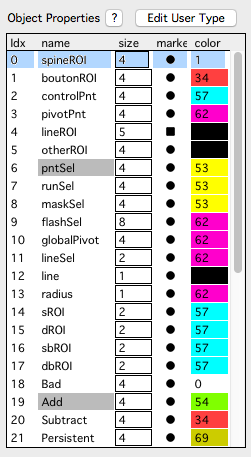
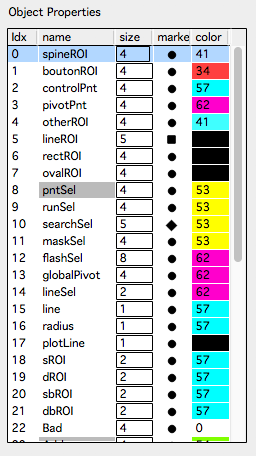
stack/buttons/options

diff --git a/_posts/2015-01-30-stack.md b/_posts/2015-01-30-stack.md
@@ -61,7 +61,7 @@ td{
 
 
 
-A stack window displays a 3D image stack, one image at a time.
+A stack window displays a 3D image stack, one image at a time
 
 <IMG class="img-float-right" SRC="images/imagingcore/stack-example-spines4.png" WIDTH="350">
 
@@ -81,7 +81,10 @@ Mouse click+drag or keyboard <kbd>arrow-keys</kbd> to pan the image.
 Keyboard <kbd>Enter</kbd> will return image to full zoom.
 
 #### Selecting annotations
+
 Single mouse-click to select an annotation. Selected annotations are highlighted in yellow. Keyboard <kbd>n</kbd> to edit the selected annotation note. Mouse right-click to show context menu for selected annotation.
+
+<kbd>Ctrl</kbd>+click an annotation to center and zoom on that annotations. In a [run plot][run-plot], <kbd>ctrl</kbd>+click will center and zoom the annotation in all [run plot][run-plot] windows.
 
 #### Canceling annotation selection
 Keyboard <kbd>esc</kbd> will **cancel** all selected annotations.
@@ -91,7 +94,7 @@ Keyboard <kbd>esc</kbd> will **cancel** all selected annotations.
 
 ### Multiple color channels
 
-Use keyboard <kbd>1</kbd>, <kbd>2</kbd>, and <kbd>3</kbd> to switch between channels one, two, and three. Color channels can also be switched using the <a href="#buttons-panel">buttons panel</a> or the mouse right-click menu.
+For image stacks with more than one color channel, use keyboard <kbd>1</kbd>, <kbd>2</kbd>, and <kbd>3</kbd> to switch between channels one, two, and three. Color channels can also be switched using the [buttons][buttons] window or the mouse right-click menu 'view'.
 
 <IMG class="img-float-right" SRC="images/contrast-bar.png" WIDTH="500">
 
@@ -99,7 +102,7 @@ Use keyboard <kbd>1</kbd>, <kbd>2</kbd>, and <kbd>3</kbd> to switch between chan
 
 <div class="print-page-break"></div>
 
-Open the contrast bar with keyboard <kbd>c</kbd>, the right-click menu 'View - Contrast Bar', or use the <a href="#buttons-panel">buttons panel</a> 'control bar'.
+Open the contrast bar with keyboard <kbd>c</kbd>, the right-click menu 'View - Contrast Bar', or use the [buttons][buttons] paenl 'contrast bar'.
 
 <span style="color:red">Image contrast is critical</span>. If contrast is not set properly, dim but otherwise important structures in an image may not be visible. Setting the contrast does not modify the image, it is purely for visualization. To acheive optimal contrast, use the histogram (keyboard <kbd>h</kbd>) to choose the image contrast based on the intensity values in an image.
 
@@ -126,18 +129,26 @@ The values can be saved from the [Options Panel][2] or the main Map Manager menu
 <div class="print-page-break"></div>
 
 
-<IMG class="img-float-right" SRC="images/mm3/buttons.png" WIDTH="225">
+<IMG class="img-float-right" SRC="images/mm3/mm3-stack-right-click.png" WIDTH="175">
 
-### Buttons panel
+### Right click
+
+Right-click on the image and you will get a contextual menu to activate the features described on this page. Many of the options available in the right-click menu can also be set using the [buttons][buttons] window.
+
+<div class="print-page-break"></div>
+
+<IMG class="img-float-right" SRC="images/mm3/mm3-buttons.png" WIDTH="225">
+
+### Buttons window
 
 <a id="buttons-panel"></a>
 
 
-The buttons panel provides a quick interface to perform actions on stack and [map plot](map-plot) windows. The actions provided in the buttons panel are also available from individual map manager windows using a mouse right-click.
+The [buttons][buttons] window provides a quick interface to perform actions on stack and [map plot](map-plot) windows. The actions provided in the buttons window are also available from individual map manager windows using a mouse right-click.
 
-Open the buttons panel from the main menu 'MapManager - Buttons' or use keyboard <kbd>ctrl</kbd>+<kbd>1</kbd>.
+Open the buttons window from the main menu 'MapManager - Buttons' or use keyboard <kbd>ctrl</kbd>+<kbd>1</kbd>.
 
-Once open, the buttons panel will automatically update based on the front-most Map Manager window. The 'stack' tab is for setting stack windows, the 'Obj Map' tab for setting [map plot](map-plot) windows and the 'Report' tab is for generating [reports][reports].
+Once open, the buttons window will automatically update based on the front-most Map Manager window. The 'stack' tab is for setting stack windows, the 'Obj Map' tab for setting [map plot](map-plot) windows and the 'Report' tab is for generating [reports][reports].
 
 
 
@@ -149,7 +160,7 @@ Once open, the buttons panel will automatically update based on the front-most M
 
 The histogram window show a histogram of pixel intensity values for each image in a stack.
 
-Open the histogram window with keyboard <kbd>h</kbd>, the right-click menu, or the <a href="#buttons-panel">buttons panel</a>.
+Open the histogram window with keyboard <kbd>h</kbd>, the right-click menu, or the [buttons][buttons] window.
 
 - The histogram window shows a pixel intensity histogram for one image. The y-axis is a log scale. This is useful because most images will have an order-of-magnitude more dark pixels, a log scale allows the contributions of the generally brighter signal pixels to be seen.
 - Scroll through the image in a stack (mouse-wheel) and the histogram for each image will be show.
@@ -162,7 +173,7 @@ Open the histogram window with keyboard <kbd>h</kbd>, the right-click menu, or t
 
 A sliding z-projection is a special stack where each image plane is replaced by a small z-projection showing slices just above and below the current image plane. For frame averaging, each image is replaced by the average of itself with a number of frames after it.
 
-Switch channels or to a sliding z-projection using the following table. This is also available in the <a href="#buttons-panel">buttons panel</a>.
+Switch channels or to a sliding z-projection using the following table. This is also available in the [buttons][buttons] window.
 
 **Important.** Switch to a sliding z-projection with <kbd>shift</kbd> to set the sliding z-projection options including the number of slices and the type of projection (Maximal, Frame Average, Standard Deviation). For example, if you have one channel images, <kbd>shift</kbd>+<kbd>3</kbd> will allow you to set the sliding z-projection options.
 
@@ -232,13 +243,6 @@ See [stack annotations][3] for details on creating and editing annotations.
  
  <div class="print-page-break"></div>
 
-<IMG class="img-float-right" SRC="images/mm3/mm3-stack-right-click.png" WIDTH="200">
-
-### Right click
-
-Right-click on the image and you will get a contextual menu to activate the features described on this page. All the options available in the right-click menu can also be set using the <A HREF="#buttons-panel">buttons</A> panel.
-
-<div class="print-page-break"></div>
 
 <img class="img-float-right" SRC="images/mm3/mm3-point-info.png" WIDTH="300">
 
@@ -291,7 +295,7 @@ In most cases the voxel size will be set automatically. The x/y/z voxel size of 
 
 ### Stack window keyboard shortcuts
 
-Map Manager makes heavy use of keyboard shortcuts. All of these keyboard shortcuts are available in the mouse right-click menu (which also lists the corresponding keyboard shortcut) and in the <A HREF="#buttons-panel">buttons panel</a>.
+Map Manager makes heavy use of keyboard shortcuts. All of these keyboard shortcuts are available in the mouse right-click menu (which also lists the corresponding keyboard shortcut) and in the [buttons][buttons] window.
 
 |---+---+---+---
 |Topic			|Keyboard/Mouse		|Action
@@ -303,10 +307,12 @@ Map Manager makes heavy use of keyboard shortcuts. All of these keyboard shortcu
 |				|ctrl + mouse wheel		|Zoom image. Zooming follows the mouse cursor.
 |				|Enter/Return			|Full zoom image
 |				|]				|Toggle between 2 different window sizes
+|				|left mouse-click		| Select annotation
+|				|ctrl + left mouse-click	|Select, center and zoom annotation
 |**Toolbars**	| |
 |				|c				|Toggle contrast toolbar (top)
 |				|[				|Toggle annotation toolbar (left)
-|				|ctrl + 1		|Open the buttons panel
+|				|ctrl + 1		|Open the buttons window
 |**Annotations**	| |
 |				|shift + mouse click	| Create a new annotation.
 |				|mouse left-click	| Select annotation. Selected annotations are shown in yellow.
@@ -322,7 +328,7 @@ Map Manager makes heavy use of keyboard shortcuts. All of these keyboard shortcu
 |**New Windows**	| |
 |				|h				|Histogram
 |				|z				|Maximal Z-Projection
-|				|i				|Object info panel
+|				|i				|Object info panel (lower case 'i' as in Info)
 |				|shift+i		|Stack info panel
 |**Movies**	| |
 |				|/				|Start and stop movie of slices/frames
@@ -332,11 +338,13 @@ Map Manager makes heavy use of keyboard shortcuts. All of these keyboard shortcu
 |				|l				|Link window (lower case 'l' as in link)
 |				|a				|Make selected annotation addition
 |				|s				|Make selected annotation subtraction
-|				|p				|Make selected annotation persistent (requires selection in previous timepoint)
+|				|p				|Make selected annotation persistent. Requires selection in previous timepoint.
+|				|shift + left-arrow			| Go to previous time-point (in the same window). Turn this on in options.
+|				|shift + right-arrow		| Go to next time-point (in the same window). Turn this on in options.
 
 #### Stack window keyboard shortcuts to display image channels
 
-Depending on the number of color channels in an image, color channels can be switch using keyboard <kbd>1</kbd>, <kbd>2</kbd>, and <kbd>3</kbd>. This includes single color channels, sliding z-projections, and merged RGB.
+Depending on the number of color channels in an image, color channels can be switch using keyboard <kbd>1</kbd>, <kbd>2</kbd>, and <kbd>3</kbd>. This includes single color channels, sliding z-projections, and merged RGB. It may be easiest to use the [buttons][buttons] window to set the displayed color channel.
 
 **Important.** Switch to a sliding z-projection with <kbd>shift</kbd> to set the sliding z-projection options. For example, if you have one channel images, <kbd>shift</kbd>+<kbd>3</kbd> will allow you to set the sliding z-projection options.
 
@@ -360,3 +368,5 @@ Depending on the number of color channels in an image, color channels can be swi
 [3]: stack-annotations
 [4]: point-list
 [reports]: reports
+[buttons]: buttons
+[run-plot]: run-plot

diff --git a/_posts/2015-04-20-search-panel.md b/_posts/2015-04-20-search-panel.md
@@ -29,25 +29,31 @@ Select the scope of the search, either a stack or a map, and choose wether to 'i
 
 Click any of the buttons down the left hand side of the panel to perform a search. The resulting annotations will be show as a list on the right.
 
+
 #### Interacting with results
 
-All searches will return a list of annotations. Right-click an annotation to open the annotation in a [stack][3] or [run plot][4]. Selecting an annotation (left-click) will select that annotation in any open [stack][3] and [map][2] plots. Likewise, selecting an annotation in a [stack][3] or [map][2] plot will select the annotation in the search result list (if it is in the list).
+<IMG class="img-float-right" SRC="images/mm3/search/search-right-click.png" WIDTH="200">
 
-Sort the results by clicking on the column header. Additional 'smart' sorting is provided with the sort buttons:
+Right-click an annotation in the search results to open the annotation in a [stack][3] or [run plot][4]. Selecting an annotation (left-click) will select that annotation in any open [stack][3] and [map][2] plots. Likewise, selecting an annotation in a [stack][3] or [map][2] plot will select the annotation in the search result list (if it is in the list).
+
+Sort the search results by a value by clicking on its column header. Additional 'smart' sorting is provided with the sort buttons:
 
  - **Sort.** Sort by idx, map, segmentID, sess, pnt
  - **Sort Mod Time.** Sort by mSeconds, idx
  - **Sort Segments.** Sort by map, sess, segmentID, pDist, idx
 
-Right-click the columns to choose the columns to display. This includes 'Date Time', 'Note', 'Errors and Warnings', and 'Spine Info'.
+Right-click the columns of the search results to choose the columns to display. This includes 'Date Time', 'Note', 'Errors and Warnings', 'Spine Info', and 'Canvas'.
 
 
 ### Editing searches
 
-<IMG class="img-float-right" SRC="images/mm3/search/search-right-click.png" WIDTH="200">
+Right-click on an annotation in the results list to open a popup to either display or edit the annotation. Annotations can be tagged as good/bad or as a particular user type.
 
-Once a search is performed, right click on an annotation in the results list to open a popup to either display or edit the annotation. Annotations can be tagged as bad or as a particular user type.
+Individual annotations can also be set with the keyboard.
 
+ - <kbd>g</kbd>: Set selected annotation to good.
+ - <kbd>b</kbd>: Set selected annotation to bad.
+ - <kbd>0 .. 9</kbd>: Set selected annotation to a specific user type.
 
 ### Types of searches
 
@@ -55,16 +61,11 @@ Once a search is performed, right click on an annotation in the results list to 
 
   - **All.** Find all annotations of 'Object Type'.
   - **Bad.** Find annotations marked bad.
-  - **Notes.** Find annotations with notes matching the search criteria. Use an asterix (\*) as a wildcard. Use \* to return all annotations with a note, use thistext\* to find annotation with notes starting with 'thistext' or ending with 'thistext' using \*thistext.
-  - **Closeness.** Find annotations that are within specified distance (um) of each other. This is useful for finding erroneous/duplicate annotations.
+  - **Notes.** Find annotations with notes matching the search criteria. Use an asterix (\*) as a wildcard. Use \* to search all annotations with a note, use thistext\* to find annotation with notes starting with 'thistext' or ending with 'thistext' using \*thistext.
+  - **Closeness.** Find annotations that are within specified distance (um) of each other. This is useful for finding overlapping/duplicate annotations.
   - **User Bool.**
   - **User Type.** Find annotations tagged with a user type 0, 1, 2, ...
   
-#### Spines
-
-  - **V Spines.** Find spines where the z-plane of the spine head is farther (in z) from the connected backbone/dendrite line. This is useful for finding spines that project out of the imaging plane. 
-  - **Segment Ends.** Find spines within specified distance (um) of the end of their segment/backbone line. This is useful for finding problematic spines during [spine intensity analysis][5].
-
 #### Map Tab
 
   - **Addition.** Find annotations that are addition.
@@ -72,11 +73,22 @@ Once a search is performed, right click on an annotation in the results list to 
   - **Persistent.** Find annotations that are persistent (not that usefull).
   - **Transient.** Find annotations that are transient. Transient annotations occur in only one time-point.
   - **Bad Runs.** Find annotations that have a mixture of good and bad within their respective run. This is used for debugging and will be removed.
-  - **Re Added.** (Spines) Find added spines that have a previous subtraction (on a previous timepoint) that is within specified distance along the backbone/dendrite.
-  - **Jumping.**
-  - **Changing User 1.**
-  - **Changing User Type.** Find all annotations that are connected to other annotations with a different user type. In general, user types (like bad) should be the same for all connected annotations.
-  
+  - **Re Added.** (Spine Annotations) Find added spines that have a previous subtraction (on a previous timepoint) that is within specified distance along the segment tracing.
+  - **Jumping.** Advanced, not used.
+  - **Changing User Type.** Find all annotations that are connected to other annotations with a different user type.
+
+#### Spines Tab
+
+  - **V Spines.** Find spines where the z-plane of the spine head is farther (in z) from the connected backbone/dendrite line. This is useful for finding spines that project out of the imaging plane. 
+  - **Segment Ends.** Find spines within specified distance (um) of the end of their segment/backbone line. This is useful for finding problematic spines during [spine intensity analysis][5].
+
+  - **Int Dirty.** Find spines with dirty intensity analysis. Spines with dirty intensity analysis can be analyzed in the main [map manager panel][6], intensity tab.
+  - **Int User.** Find spines that have their intensity analysis parameters manually set. Individual spine annotation can have their intensity analysis parameters set in a stack window using the info panel (keyboard <kbd>i</kbd>).
+  - **Int Bad.** Find spines marked as intensity bad. 
+  - **ROI Bounds.** Find spines with background ROI within specified distance (um) from edges of image. This is useful if stack alignment has been run causing images to be shifted/rotated resulting in undefined regions on the edge of the image.
+  - **Errors and Warning.** Find annotations with [Intensity Analysis][5] errors and warnings. To display the Errors and Warnings columns, right-click the column headers and select 'Errors and Warnings'. See [intensity analysis][5].
+
+
 #### Manual Tab
   Find annotations matching a user specified criterion.
   
@@ -84,14 +96,10 @@ Once a search is performed, right click on an annotation in the results list to 
   
   For example, to find all spines/filapodia longer than 3 um, select 'Stat:sLen2d Type:IntCh1', enter a value 3, select '>' operator and press the 'Manual Search' button.
 
-#### Intensity Tab
+### Batch editing search results
 
-  - **Int Dirty.** Find spines with dirty intensity analysis. Spines with dirty intensity analysis can be analyzed in the main [map manager panel][6], intensity tab.
-  - **Int User.**
-  - **Int Bad.**
-  - **ROI Bounds.** Find spines with background ROI within specified distance (um) from edges of image. This is useful if stack alignment has been run causing images to be shifted/rotated resulting in undefined regions on the edge of the image.
-  - **Errors and Warning.** Find annotations with [Intensity Analysis][5] errors and warnings. To display the Errors and Warnings columns, right-click the column headers and select 'Errors and Warnings'. See [intensity analysis][5].
- 
+All annotations in the search results can be set to a particular user type. Use the 'Results to user type' button in the lower right of the window.
+
 [1]: stack-browser
 [2]: map-plot
 [3]: stack-plot

diff --git a/_posts/2015-04-20-stackdb-options-panel.md b/_posts/2015-04-20-stackdb-options-panel.md
@@ -223,42 +223,43 @@ Use this table to set how annotations and lines are displayed. Right-click on 'm
 | Annotation Selection	| 	|
 |8	|pntSel			| When an annotation is selected
 |9	|runSel			| When a run of annotations is selected
-|10	|maskSel		| When a mask is selected
-|11	|flashSel		| On selection annotations are flashed, see 'Miscellaneous - Flash Ticks' to control the speed.
+|10	|searchSel			| To overlay markers showing annotations in the last search. Turn this on in the [buttons][buttons] window.
+|11	|maskSel		| When a mask is selected
+|12	|flashSel		| On selection, annotations are flashed. See 'Options - Miscellaneous - Flash Ticks (au)' to control the speed.
 | Other	|	|
-|12	|globalPivot	| 
-|13	|lineSel		| Not sure any more, go figure out the brain
-|14	|line			| Segment tracing backbone line
-|15	|radius			| Segment tracing radius line
-|16	|plotLine		| Line connecting corresponding annotations in map plots
+|13	|globalPivot	| 
+|14	|lineSel		| Not sure any more, go figure out the brain
+|15	|line			| Segment tracing backbone line
+|16	|radius			| Segment tracing radius line
+|17	|plotLine		| Line connecting corresponding annotations in map plots
 | Spine Intensity	|	|
-|17	|sROI			| Spine intensity ROI
-|18	|dROI			| Segment intensity ROI
-|19	|sbROI			| Spine background ROI
-|20	|dbROI			| Segment background ROI
+|18	|sROI			| Spine intensity ROI
+|19	|dROI			| Segment intensity ROI
+|20	|sbROI			| Spine background ROI
+|21	|dbROI			| Segment background ROI
 | Annotation dynamics	|	|
-|21	|Bad			| Bad annotations
-|22	|Add			| Added annotations
-|23	|Subtract		| Subtracted annotations
-|24	|Persistent		| Persistent annotations
-|25	|Transient		| Transient annotations
+|22	|Bad			| Bad annotations
+|23	|Add			| Added annotations
+|24	|Subtract		| Subtracted annotations
+|25	|Persistent		| Persistent annotations
+|26	|Transient		| Transient annotations
 | User 1/2/3	|	|
-|26	|User 1_1		| Not used
-|27	|User 1_2		| Not used
-|28	|User 1_3		| Not used
-|29	|User 1_4		| Not used
-|30	|User 1_5		| Not used
+|27	|User 1_1		| Not used
+|28	|User 1_2		| Not used
+|29	|User 1_3		| Not used
+|30	|User 1_4		| Not used
+|31	|User 1_5		| Not used
 | User Type	|	|
-|31	|User Type 0	| User type 0
-|32	|User Type 1	| User type 1
-|33	|User Type 2	| User type 2
-|34	|User Type 3	| User type 3
-|35	|User Type 4	| User type 4
-|36	|User Type 5	| User type 5
-|37	|User Type 6	| User type 6
-|38	|User Type 7	| User type 7
-|39	|User Type 8	| User type 8
-|40	|User Type 9	| User type 9
+|32	|User Type 0	| User type 0
+|33	|User Type 1	| User type 1
+|34	|User Type 2	| User type 2
+|35	|User Type 3	| User type 3
+|36	|User Type 4	| User type 4
+|37	|User Type 5	| User type 5
+|38	|User Type 6	| User type 6
+|39	|User Type 7	| User type 7
+|40	|User Type 8	| User type 8
+|41	|User Type 9	| User type 9
  
 
 ### Load Stacks From Special Folder

diff --git a/_posts/2016-04-22-release-notes.md b/_posts/2016-04-22-release-notes.md
@@ -8,12 +8,24 @@ tags:
 - faq
 ---
 
+### 201808 Finalizing new version
+
+ - Buttons panel for stack and map plots (ctrl+1 to open) is now functioning and hopefully useful
+ - New Stack Legend panel to control stack label (upper left of stack window, global options), annotation tags (global). Also can append and modify a scale bar, image label to count slices/time, and a movie bar.
+ - Editing annotations in a stack window and annotation bar (keyboard '[') is now synchronized with the point list panel
+    - notes
+    - user type
+    - bad (point list no longer shows 'not bad' as 0
+ - right click annotation to 'analyze intensity'
+ - Standardized opening stacks in the stack browser. All should have same behavior: double-click, right-click - display stack, keyboard 'd'.
+ - Now show a please wait dialog while opening stack. It will be positioned inside the window that was used to open stack including stack browser, time-series, and map plots
+ 
 ### 20180330
 
 To Do:
 
 - Allow tracing to be reversed (Julia).
-- Provide button to recalculate segment length and spine poisiotn (Zeng-You).
+- Provide button to recalculate segment length and spine position (Zeng-You).
 
 Working on new version, seeded to
 
@@ -39,7 +51,7 @@ Working on new version, seeded to
    - [stack](stack) documentation now inclused 'global contrast' and 'buttons'. Open both from the main MapManager menu.
    - Added [map database](map-database) documentation.
  - Added Fiji plugin /tracing/bMergeChannelsv1_.py to open stack annotations and segments in ROI manager, 3D view, and Simple Neurite Tracer.
- - Added floating panel (inside stack window) to give feedback when moving and manually connecting an annotation.
+ - Added floating panel (inside stack window) to give feedback when editing annotations including: moving, manually connecting, setting good/bad.
  - Map manager documentation is now at http://mapmanager.github.io
  
 ### 20171030
